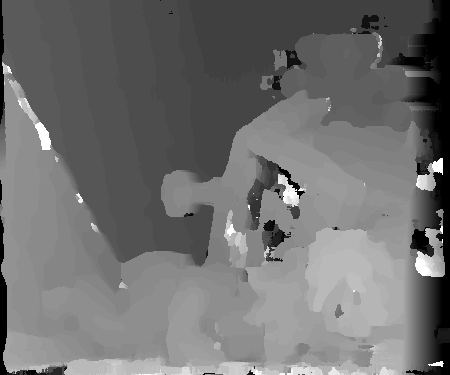
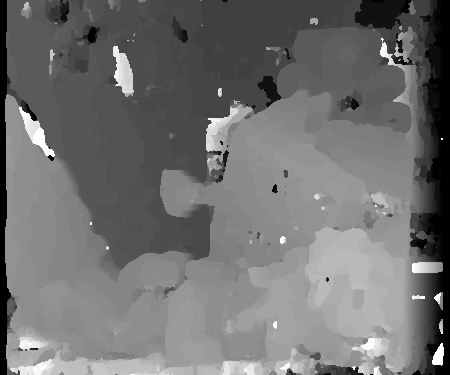
adding colored images

diff --git a/disparity_map.cpp b/disparity_map.cpp
@@ -1,12 +1,13 @@
 #include <opencv2/core/core.hpp>
 #include <opencv2/highgui/highgui.hpp>
+#include <opencv2/imgproc/imgproc.hpp>
 #include <iostream>
 #include <ctime>
-// Best result SAD with Windows 7
-#define WINDOW_SIZE 7
+// Best result SAD with Window = 7
+#define WINDOW_SIZE 5
 #define DISPARITY_INTERVAL 15
 #define SET "tsukuba"
-#define METHOD "sad"
+#define METHOD "ssd"
 //TEDDY 59
 //CONES 59
 //VENUS 19
@@ -14,8 +15,8 @@
 
 std::string IMAGES_PATH =  "/Users/rafael/Projects/python-mosaic/stereo/";
 
-cv::Mat image0 = cv::imread(IMAGES_PATH + SET + "/imR.png", CV_LOAD_IMAGE_GRAYSCALE);
-cv::Mat image1 = cv::imread(IMAGES_PATH + SET + "/imL.png", CV_LOAD_IMAGE_GRAYSCALE);
+cv::Mat image0 = cv::imread(IMAGES_PATH + SET + "/imR.png", CV_LOAD_IMAGE_COLOR);
+cv::Mat image1 = cv::imread(IMAGES_PATH + SET + "/imL.png", CV_LOAD_IMAGE_COLOR);
 
 cv::Mat addWindowFrames(cv::Mat image);
 cv::Point getBestMatch(cv::Point currentPosition);
@@ -28,19 +29,19 @@ cv::Mat removeWindowFrames(cv::Mat image) {
 	cv::Size s = image.size();
 	std::cout << "[removeWindowFrames] Image Height " << s.height << "\n";
 	std::cout << "[removeWindowFrames] Image Width " << s.width << "\n";
-	
+
 	cv::Mat output = cv::Mat::zeros(s.height - 2 * WINDOW_SIZE, s.width - 2 * WINDOW_SIZE, CV_8UC1);
-	
+
 	int column;
 	int row;
-	
+
 	for(row = 0; row < s.height - 2 * WINDOW_SIZE; row++) {
 		for(column = 0; column < s.width - 2 * WINDOW_SIZE; column++) {
 			int color = image.at<uchar>(row + WINDOW_SIZE, column + WINDOW_SIZE);
 			output.at<uchar>(row, column) = color;
 		}
 	}
-	
+
 	return output;
 }
 
@@ -50,15 +51,15 @@ cv::Mat addWindowFrames(cv::Mat image) {
 	std::cout << "[addWindowFrames] Image Height " << s.height << "\n";
 	std::cout << "[addWindowFrames] Image Width " << s.width << "\n";
 
-	cv::Mat output = cv::Mat::zeros(s.height + 2 * WINDOW_SIZE, s.width + 2 * WINDOW_SIZE, CV_8UC1);
+	cv::Mat output = cv::Mat::zeros(s.height + 2 * WINDOW_SIZE, s.width + 2 * WINDOW_SIZE, CV_8UC3);
 
 	int column;
 	int row;
 
 	for(row = 0; row < s.height; row++) {
 		for(column = 0; column < s.width; column++) {
-			int color = image.at<uchar>(row, column);
-			output.at<uchar>(row + WINDOW_SIZE, column + WINDOW_SIZE) = color;
+			cv::Vec3b color = image.at<cv::Vec3b>(row, column);
+			output.at<cv::Vec3b>(row + WINDOW_SIZE, column + WINDOW_SIZE) = color;
 		}
 	}
 
@@ -87,13 +88,18 @@ double ssdValue(cv::Point currentPosition, cv::Point position) {
 	int row, column;
 	int fromX = -WINDOW_SIZE;
 	int fromY = -WINDOW_SIZE;
+	cv::Point from, to;
 
 	for(row = -WINDOW_SIZE; row <= WINDOW_SIZE; row++) {
 		for(column = -WINDOW_SIZE; column <= WINDOW_SIZE; column++) {
-			int image0Value = image0.at<uchar>(currentPosition.y + row, currentPosition.x + column);
-			int image1Value = image1.at<uchar>(position.y + row, position.x + column);
+			cv::Vec3b image0Value = image0.at<cv::Vec3b>(currentPosition.y + row, currentPosition.x + column);
+			cv::Vec3b image1Value = image1.at<cv::Vec3b>(position.y + row, position.x + column);
 
-			value += pow(image0Value - image1Value, 2.0);
+			from = cv::Point(image0Value[1], image0Value[2]);
+			to = cv::Point(image1Value[1], image1Value[2]);
+
+
+			value += pow(distanceBetween(from, to), 2.0);
 		}
 	}
 
@@ -105,16 +111,20 @@ double sadValue(cv::Point currentPosition, cv::Point position) {
 	int row, column;
 	int fromX = -WINDOW_SIZE;
 	int fromY = -WINDOW_SIZE;
-	
+	cv::Point from, to;
+
 	for(row = -WINDOW_SIZE; row <= WINDOW_SIZE; row++) {
 		for(column = -WINDOW_SIZE; column <= WINDOW_SIZE; column++) {
-			int image0Value = image0.at<uchar>(currentPosition.y + row, currentPosition.x + column);
-			int image1Value = image1.at<uchar>(position.y + row, position.x + column);
-			
-			value += std::abs(image0Value - image1Value);
+			cv::Vec3b image0Value = image0.at<cv::Vec3b>(currentPosition.y + row, currentPosition.x + column);
+			cv::Vec3b image1Value = image1.at<cv::Vec3b>(position.y + row, position.x + column);
+
+			from = cv::Point(image0Value[1], image0Value[2]);
+			to = cv::Point(image1Value[1], image1Value[2]);
+
+			value += std::abs(distanceBetween(from, to));
 		}
 	}
-	
+
 	return value;
 }
 
@@ -140,6 +150,9 @@ float distanceBetween(cv::Point p1, cv::Point p2) {
 
 int main(int argc, char** argv) {
 	clock_t begin = clock();
+
+	cvtColor(image0, image0, CV_BGR2Lab);
+	cvtColor(image1, image1, CV_BGR2Lab);
 
 	image0 = addWindowFrames(image0);
 	image1 = addWindowFrames(image1);
@@ -185,14 +198,17 @@ int main(int argc, char** argv) {
 	}
 	std::cout << "\n";
 	// End image normalization
-	
+
 	output = removeWindowFrames(output);
 
 	clock_t end = clock();
 	double elapsed_secs = double(end - begin) / CLOCKS_PER_SEC;
 	std::cout << "It took " << elapsed_secs << " seconds";
 	std::stringstream ss;
-	
+
+	// Makes no difference
+	//	cv::medianBlur(output, output, 7);
+
 	ss << "out/disparity_map_" << SET << "_" << METHOD << "_" << WINDOW_SIZE << ".png";
 	cv::imwrite(ss.str(), output);
 

diff --git a/dot_cloud.cpp b/dot_cloud.cpp
@@ -1,0 +1,25 @@
+#include <opencv2/core/core.hpp>
+#include <opencv2/highgui/highgui.hpp>
+#include <opencv2/imgproc/imgproc.hpp>
+#include <iostream>
+#include <ctime>
+
+std::string IMAGES_PATH =  "/Users/rafael/Projects/python-mosaic/fm/";
+
+cv::Mat image0 = cv::imread(IMAGES_PATH + "/temple0102.png", CV_LOAD_IMAGE_COLOR);
+cv::Mat image1 = cv::imread(IMAGES_PATH + "/temple0107.png", CV_LOAD_IMAGE_COLOR);
+
+void fundamentalMatrix() {
+	cv::Matx<double, 8, 9> A;
+}
+
+int main() {
+	clock_t begin = clock();
+	
+	//	TODO: CODE
+	
+	clock_t end = clock();
+	double elapsed_secs = double(end - begin) / CLOCKS_PER_SEC;
+	std::cout << "It took " << elapsed_secs << " seconds";
+	return 0;
+}
